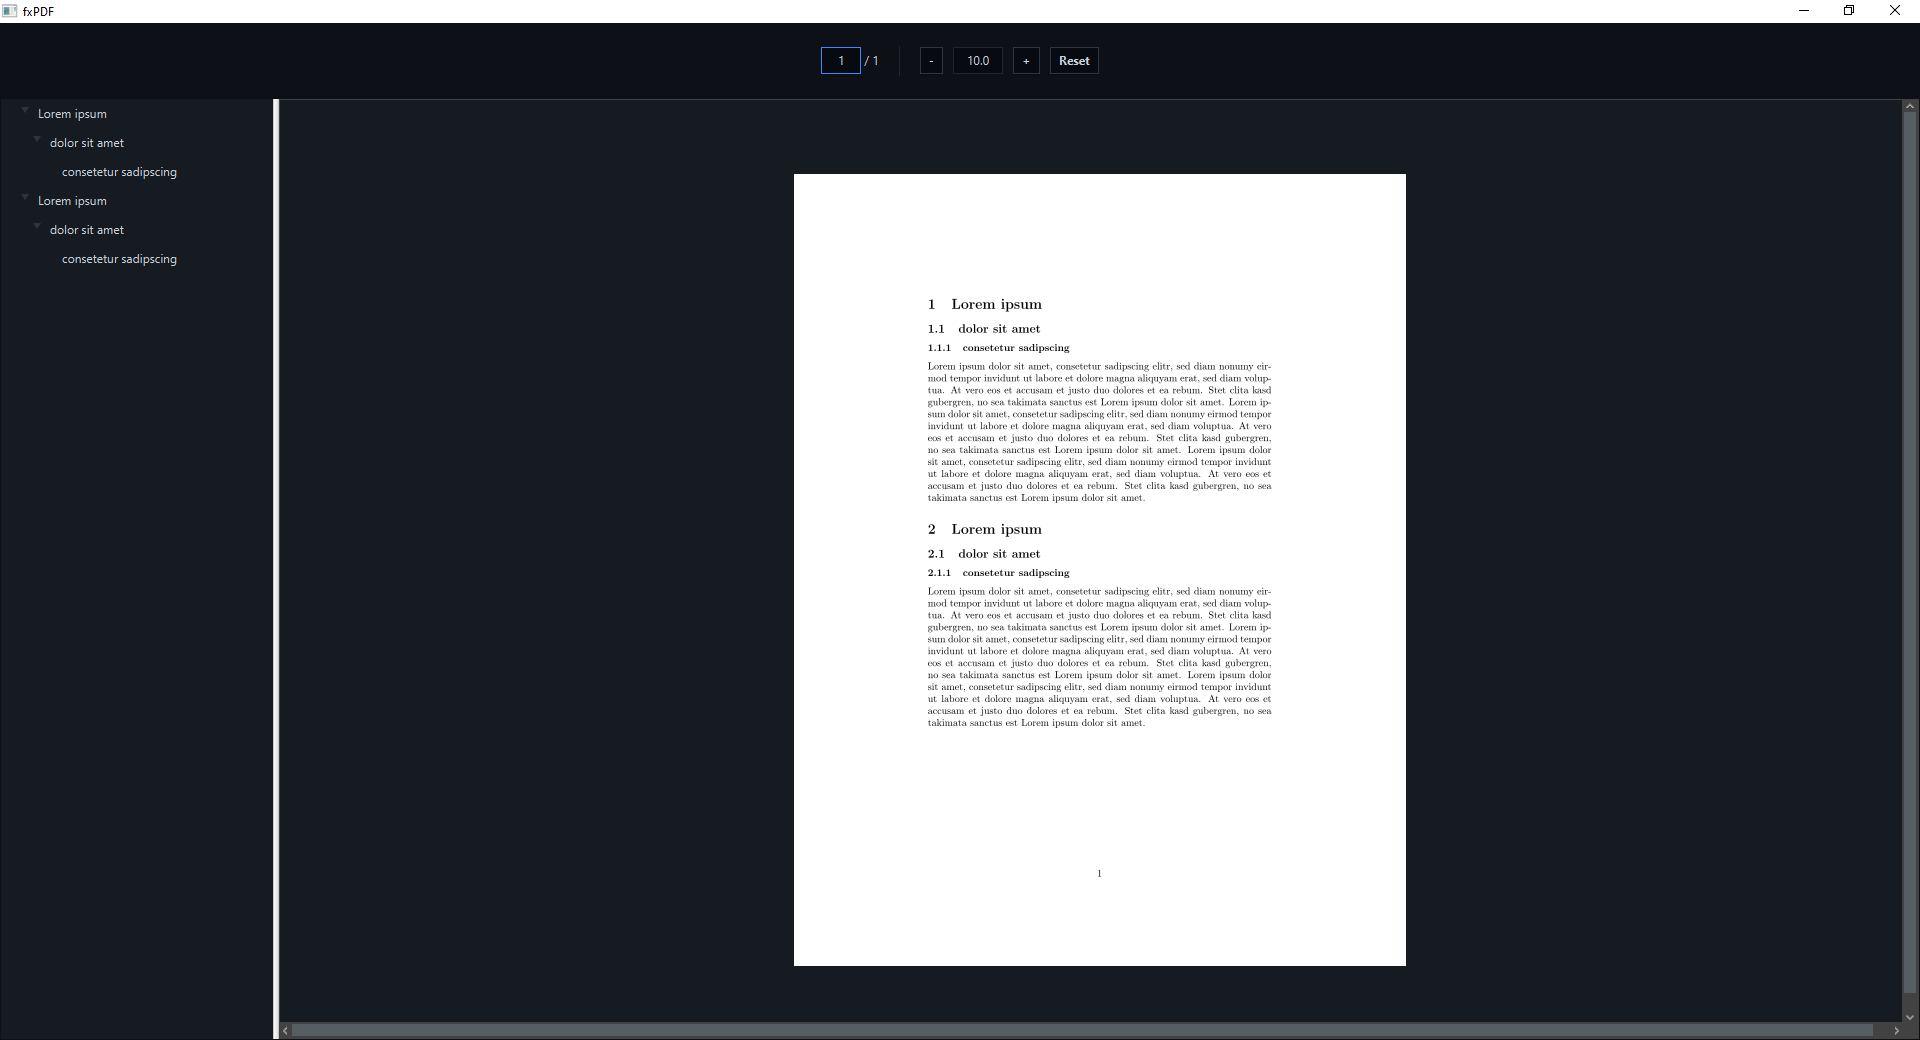
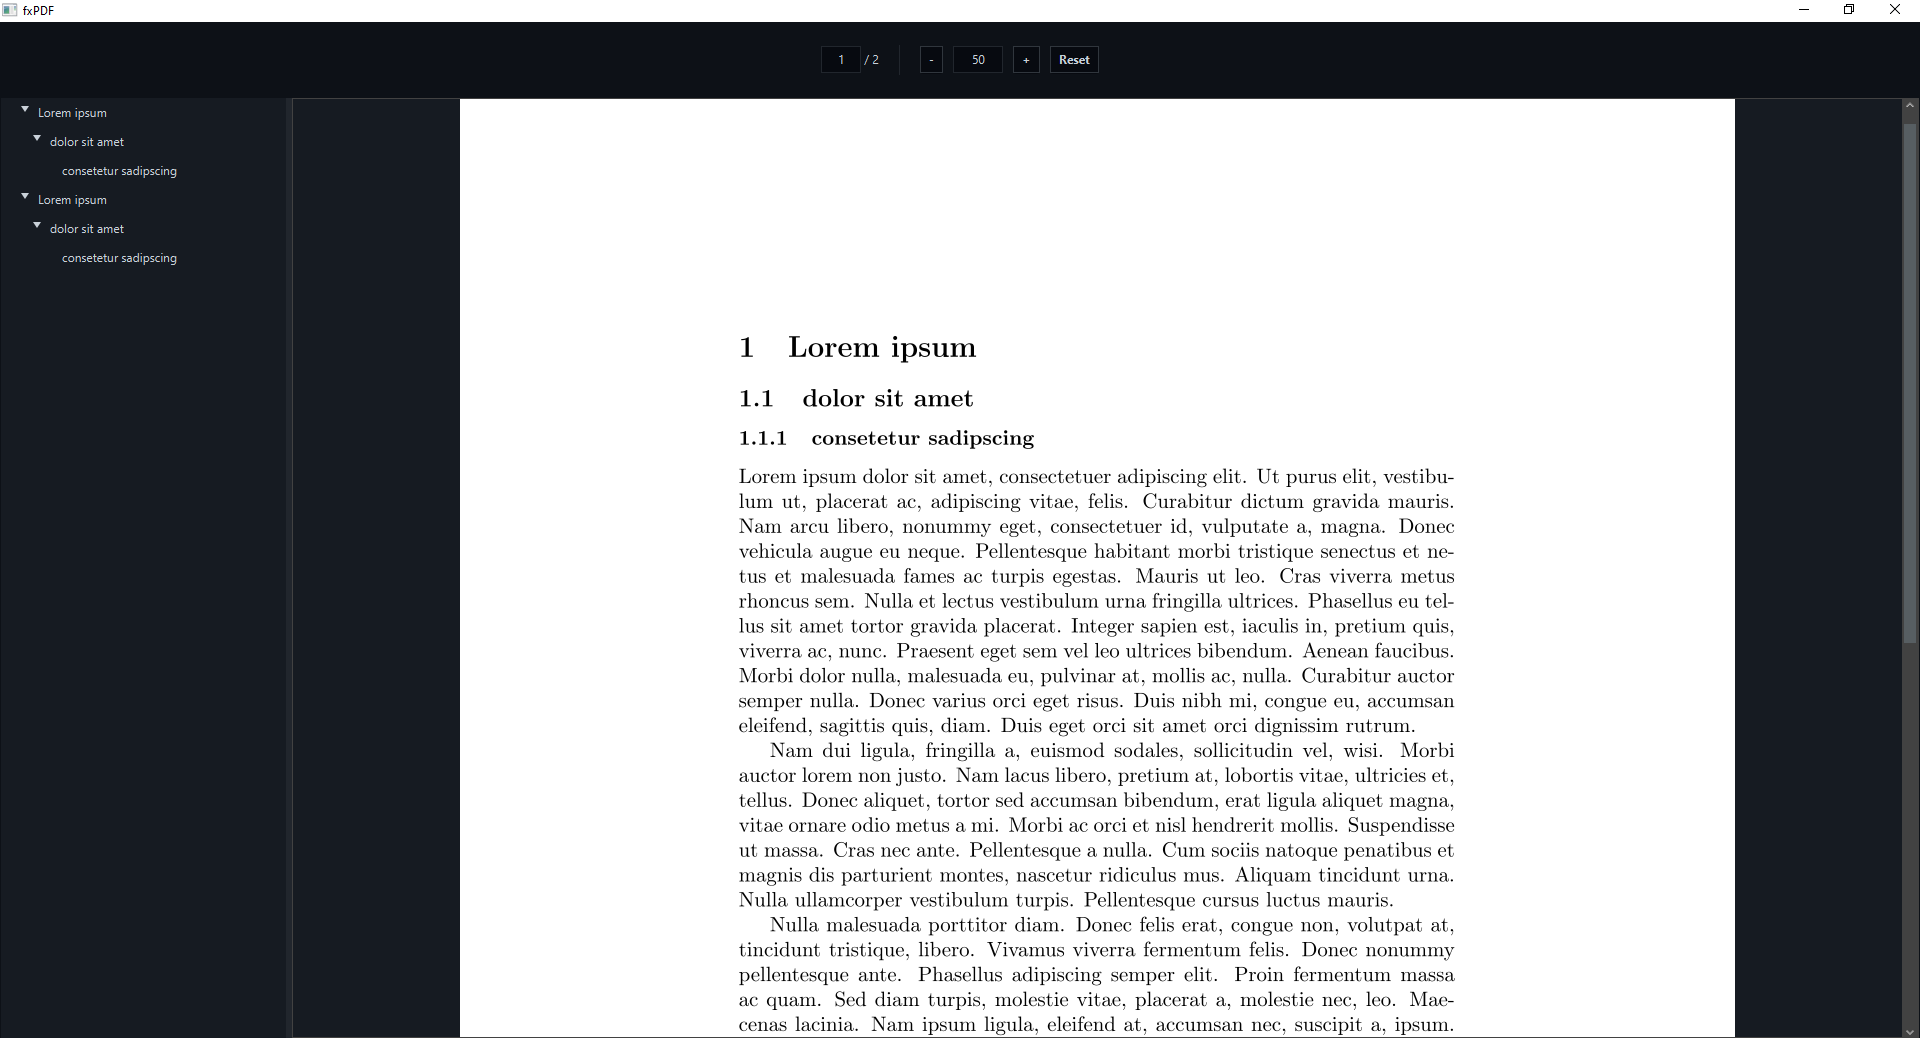
Update v1.1 Added missing javadoc Added possibility to change the dpi that is used to render the page Changed SplitPane divider color Updated screenshot Removed unused dependencies

diff --git a/src/main/resources/css/nodes/viewer/sampleviewer/sampleviewer-night.css b/src/main/resources/css/nodes/viewer/sampleviewer/sampleviewer-night.css
@@ -2,6 +2,10 @@
     -fx-background-color: #0d1117;
 }
 
+.split-pane:horizontal > .split-pane-divider {
+    -fx-background-color: #21262d;
+}
+
 .toolbar {
     -fx-background-color: #0d1117;
 }
@@ -21,3 +25,4 @@
     -fx-border-style: solid;
     -fx-border-width: 0.025em;
 }
+

diff --git a/src/main/java/eu/patrickgeiger/fxpdf/nodes/viewer/SampleViewer.java b/src/main/java/eu/patrickgeiger/fxpdf/nodes/viewer/SampleViewer.java
@@ -34,13 +34,6 @@ public class SampleViewer extends BorderPane {
 
     // Nodes
     private SplitPane splitPane;
-    private HBox toolBar;
-
-    private Separator separator;
-
-    private PageChooser pageChooser;
-    private ZoomTool zoomTool;
-    private PDFContent pdfContent;
 
     // Viewer
     @Getter
@@ -53,9 +46,9 @@ public class SampleViewer extends BorderPane {
     private AppearanceType appearanceType;
     @Getter
     @Setter
-    private String custom_path_css;
-    private static final String PATH_DARK_CSS = "css/viewer/sampleviewer/sampleviewer-night.css";
-    private static final String PATH_LIGHT_CSS = "css/viewer/sampleviewer/sampleviewer.css";
+    private String customPathCSS;
+    private static final String PATH_DARK_CSS = "css/nodes/viewer/sampleviewer/sampleviewer-night.css";
+    private static final String PATH_LIGHT_CSS = "css/nodes/viewer/sampleviewer/sampleviewer.css";
 
     /**
      * The SampleViewer constructor
@@ -83,35 +76,35 @@ public class SampleViewer extends BorderPane {
         });
 
         // Other Nodes
-        this.pageChooser = new PageChooser(this.minimalViewer);
+        var pageChooser = new PageChooser(this.minimalViewer);
 
-        this.zoomTool = new ZoomTool(this.minimalViewer);
+        var zoomTool = new ZoomTool(this.minimalViewer);
 
-        this.pdfContent = new PDFContent(this.minimalViewer);
+        var pdfContent = new PDFContent(this.minimalViewer);
 
-        this.separator = new Separator();
-        this.separator.setOrientation(Orientation.VERTICAL);
-        this.separator.setMaxHeight(30d);
+        var separator = new Separator();
+        separator.setOrientation(Orientation.VERTICAL);
+        separator.setMaxHeight(30d);
 
         // Panes
         this.splitPane = new SplitPane();
         this.splitPane.setOrientation(Orientation.HORIZONTAL);
-        this.splitPane.getItems().addAll(this.pdfContent, this.minimalViewer);
+        this.splitPane.getItems().addAll(pdfContent, this.minimalViewer);
         Platform.runLater(() -> splitPane.setDividerPositions(0.15f));
 
-        this.toolBar = new HBox();
+        var toolBar = new HBox();
         // Set css, bc empty by default
-        this.toolBar.getStyleClass().add("toolbar");
-        this.toolBar.setPrefHeight(75d);
-        this.toolBar.setSpacing(20d);
-        this.toolBar.setAlignment(Pos.CENTER);
-        this.toolBar.getChildren().addAll(this.pageChooser, this.separator, this.zoomTool);
+        toolBar.getStyleClass().add("toolbar");
+        toolBar.setPrefHeight(75d);
+        toolBar.setSpacing(20d);
+        toolBar.setAlignment(Pos.CENTER);
+        toolBar.getChildren().addAll(pageChooser, separator, zoomTool);
 
         // Own settings
         this.getStyleClass().add("sample-viewer");
         this.widthProperty().addListener((observableValue, number, t1) -> this.splitPane.setDividerPositions(0.15f));
         // Set nodes
-        this.setTop(this.toolBar);
+        this.setTop(toolBar);
         this.setCenter(this.splitPane);
     }
 
@@ -144,8 +137,8 @@ public class SampleViewer extends BorderPane {
             case CUSTOM:
                 this.getStylesheets().remove(0, this.getStylesheets().size());
                 this.getStylesheets().remove(0, this.getStylesheets().size());
-                if (custom_path_css != null) {
-                    this.getStylesheets().add(custom_path_css);
+                if (customPathCSS != null) {
+                    this.getStylesheets().add(customPathCSS);
                 } else {
                     LOGGER.error("The custom path is null");
                     throw new NullPointerException("The custom path is null");

diff --git a/src/main/java/eu/patrickgeiger/fxpdf/nodes/viewer/MinimalViewer.java b/src/main/java/eu/patrickgeiger/fxpdf/nodes/viewer/MinimalViewer.java
@@ -48,6 +48,12 @@ public class MinimalViewer extends Pane {
     @Getter
     private int currentpage;
 
+    // Quality
+    public static final int DEFAULT_DPI = 300;
+    @Getter
+    private int dpi = DEFAULT_DPI;
+
+    // Scale
     public static final double DEFAULT_SCALE = 0.5;
     public static final double MAXSCALE = 1.0;
     public static final double MINSCALE = 0.1;
@@ -61,8 +67,8 @@ public class MinimalViewer extends Pane {
     @Getter
     @Setter
     private String customPathCSS;
-    private static final String PATH_DARK_CSS = "css/viewer/minimalviewer/viewer-night.css";
-    private static final String PATH_LIGHT_CSS = "css/viewer/minimalviewer/viewer.css";
+    private static final String PATH_DARK_CSS = "css/nodes/viewer/minimalviewer/viewer-night.css";
+    private static final String PATH_LIGHT_CSS = "css/nodes/viewer/minimalviewer/viewer.css";
 
 
     // KeyBinding
@@ -437,16 +443,16 @@ public class MinimalViewer extends Pane {
      */
     private void eventRender() {
         if (this.currentpage >= 0 && this.currentpage < this.pdf.getNumberOfPages()) {
-            var imgPage = this.pdf.getSwingImage(this.currentpage);
+            var imgPage = this.pdf.renderPage(this.currentpage, this.dpi);
             imgPage = ImageTools.scaleBufferedImage(imgPage, (float) scaleFactor);
             this.imageView.setImage(ImageTools.convertToFXImage(imgPage));
         }
     }
 
     /**
-     * Set the scale factor and trigger the render event
+     * Set the scale factor and trigger the render event to update the MinimalViewer
      *
-     * @param scaleFactor the new scale factor
+     * @param scaleFactor The new scale factor that should be user
      */
     public void setScaleFactor(double scaleFactor) {
         if (scaleFactor >= MINSCALE && scaleFactor <= MAXSCALE) {
@@ -455,6 +461,11 @@ public class MinimalViewer extends Pane {
         }
     }
 
+    /**
+     * Scale the image that is viewed by the given value and trigger the render event to update the MinimalViewer
+     *
+     * @param scaleFactor The scale factor that should be used
+     */
     public void scaleByValue(double scaleFactor) {
         double newValue = this.scaleFactor + scaleFactor;
         newValue = Double.parseDouble(new DecimalFormat("0.00").format(newValue));
@@ -495,5 +506,15 @@ public class MinimalViewer extends Pane {
                 break;
         }
         this.fireEvent(new ViewerActionEvent(Parameter.THEME_CHANGED));
+    }
+
+    /**
+     * Change the DPI setting of the MinimalViewer and trigger the event to render the current page again
+     *
+     * @param dpi The new DPI value
+     */
+    public void setDpi(int dpi) {
+        this.dpi = dpi;
+        this.fireEvent(new ViewerActionEvent(Parameter.RENDER));
     }
 }

diff --git a/src/main/java/eu/patrickgeiger/fxpdf/nodes/ZoomTool.java b/src/main/java/eu/patrickgeiger/fxpdf/nodes/ZoomTool.java
@@ -27,11 +27,6 @@ public class ZoomTool extends HBox {
     // Logger
     private static final Logger LOGGER = LogManager.getLogger(ZoomTool.class);
 
-    // Nodes
-    private Button btnReset;
-    private Button btnZoomIn;
-    private Button btnZoomOut;
-
     private TextField textFieldZoom;
 
     private final MinimalViewer minimalViewer;
@@ -60,19 +55,20 @@ public class ZoomTool extends HBox {
      */
     private void initialize() {
         // Buttons
-        this.btnReset = new Button("Reset");
-        this.btnReset.setOnAction(actionEvent -> this.minimalViewer.setScaleFactor(MinimalViewer.MINSCALE));
+        // Nodes
+        var btnReset = new Button("Reset");
+        btnReset.setOnAction(actionEvent -> this.minimalViewer.setScaleFactor(MinimalViewer.MINSCALE));
 
-        this.btnZoomIn = new Button("+");
-        this.btnZoomIn.setOnAction(actionEvent -> {
+        var btnZoomIn = new Button("+");
+        btnZoomIn.setOnAction(actionEvent -> {
             LOGGER.info(this.minimalViewer.getScaleFactor());
             if (this.minimalViewer.getScaleFactor() <= MinimalViewer.MAXSCALE) {
                 this.minimalViewer.scaleByValue(MinimalViewer.SCALE_STEP);
             }
         });
 
-        this.btnZoomOut = new Button("-");
-        this.btnZoomOut.setOnAction(actionEvent -> {
+        var btnZoomOut = new Button("-");
+        btnZoomOut.setOnAction(actionEvent -> {
             if (this.minimalViewer.getScaleFactor() > MinimalViewer.MINSCALE) {
                 this.minimalViewer.scaleByValue(MinimalViewer.SCALE_STEP * -1);
             }
@@ -109,7 +105,7 @@ public class ZoomTool extends HBox {
         // Add nodes
         this.setAlignment(Pos.CENTER);
         this.setSpacing(10d);
-        this.getChildren().addAll(this.btnZoomOut, this.textFieldZoom, this.btnZoomIn, this.btnReset);
+        this.getChildren().addAll(btnZoomOut, this.textFieldZoom, btnZoomIn, btnReset);
     }
 
 

diff --git a/src/main/java/eu/patrickgeiger/fxpdf/util/PDF.java b/src/main/java/eu/patrickgeiger/fxpdf/util/PDF.java
@@ -40,7 +40,7 @@ public class PDF {
     }
 
     /**
-     * Load a new PDF
+     * Load a new File
      *
      * @param pdf The file to the pdf
      */
@@ -55,14 +55,34 @@ public class PDF {
     /**
      * Generates a BufferedImage with the specified page number and scaling factor.
      * If the page number is outside that of the PDF then a null object is returned.
+     * The DPI is 300 by default.
      *
      * @param pageNumber The number of the page to be generated
      * @return A BufferedImage object of the given page
      */
-    public BufferedImage getSwingImage(int pageNumber) {
+    public BufferedImage renderPage(int pageNumber) {
         try {
             if (pageNumber <= getNumberOfPages()) {
                 return renderer.renderImageWithDPI(pageNumber, 300);
+            } else return null;
+        } catch (Exception e) {
+            LOGGER.error(e.getMessage());
+            return null;
+        }
+    }
+
+    /**
+     * Generates a BufferedImage with the specified page number and scaling factor.
+     * If the page number is outside that of the PDF then a null object is returned.
+     *
+     * @param pageNumber The number of the page to be generated
+     * @param dpi        The DPI with which the PDF is generated
+     * @return A BufferedImage object of the given page
+     */
+    public BufferedImage renderPage(int pageNumber, int dpi) {
+        try {
+            if (pageNumber <= getNumberOfPages()) {
+                return renderer.renderImageWithDPI(pageNumber, dpi);
             } else return null;
         } catch (Exception e) {
             LOGGER.error(e.getMessage());

diff --git a/src/test/java/eu/patrickgeiger/fxpdf/util/PDFTest.java b/src/test/java/eu/patrickgeiger/fxpdf/util/PDFTest.java
@@ -31,7 +31,7 @@ class PDFTest {
         PDF pdf = new PDF(new File(getClass().getClassLoader().getResource("Lorem_ipsum.pdf").getFile()));
         Assertions.assertNotNull(pdf);
         for (int i = 0; i < pdf.getNumberOfPages(); i++) {
-            BufferedImage img = pdf.getSwingImage(i);
+            BufferedImage img = pdf.renderPage(i);
             Assertions.assertNotNull(img);
         }
         pdf.closeDocument();

diff --git a/src/main/java/eu/patrickgeiger/fxpdf/fxPDF.java b/src/main/java/eu/patrickgeiger/fxpdf/fxPDF.java
@@ -27,7 +27,7 @@ public class fxPDF extends Application {
             //Create PDF
             var pdf = new PDF(selected);
             var sv = new SampleViewer(pdf);
-            sv.setTheme(AppearanceType.LIGHT);
+            sv.setTheme(AppearanceType.DARK);
             //Scene and add PDFViewer
             var s = new Scene(sv);
             //Stage settings
